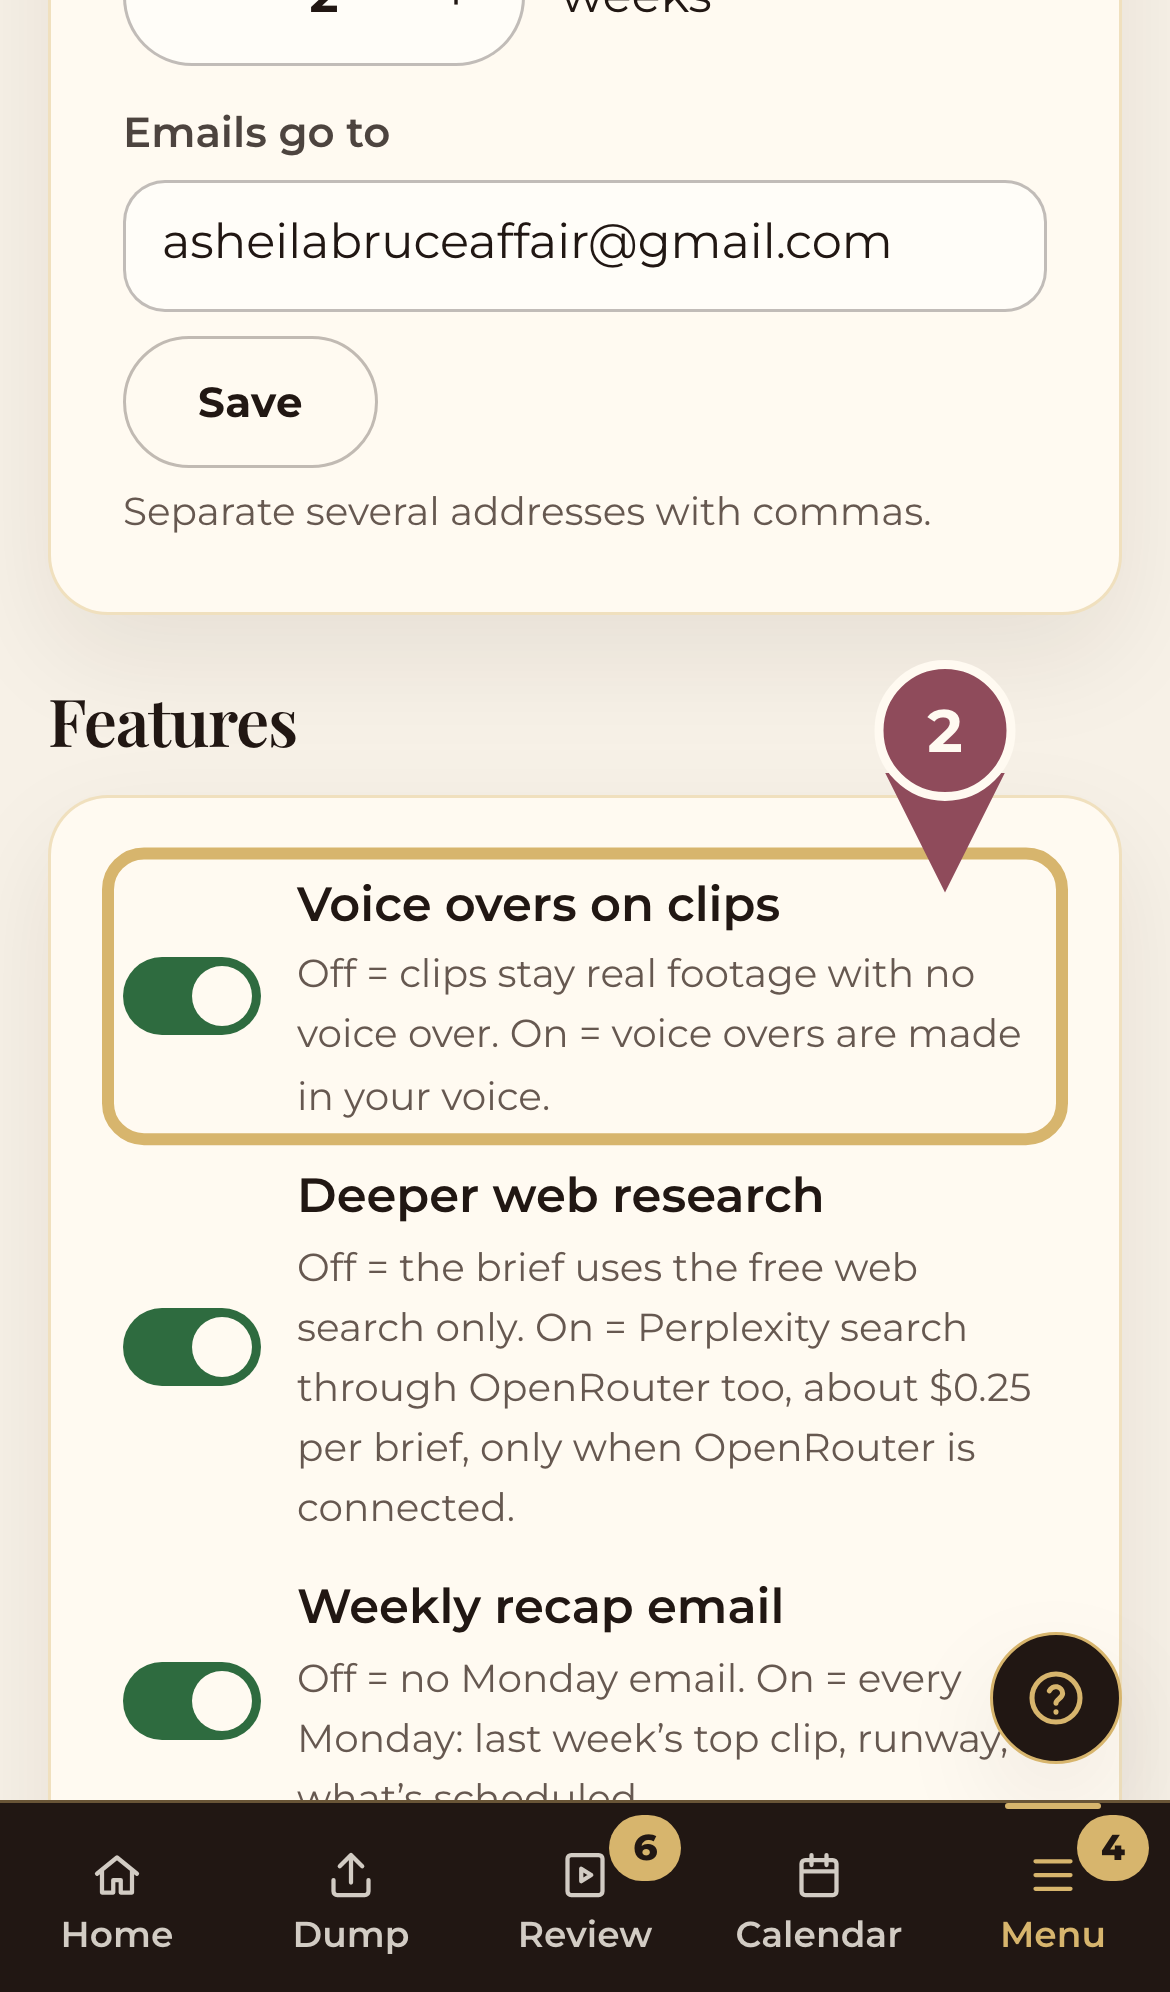
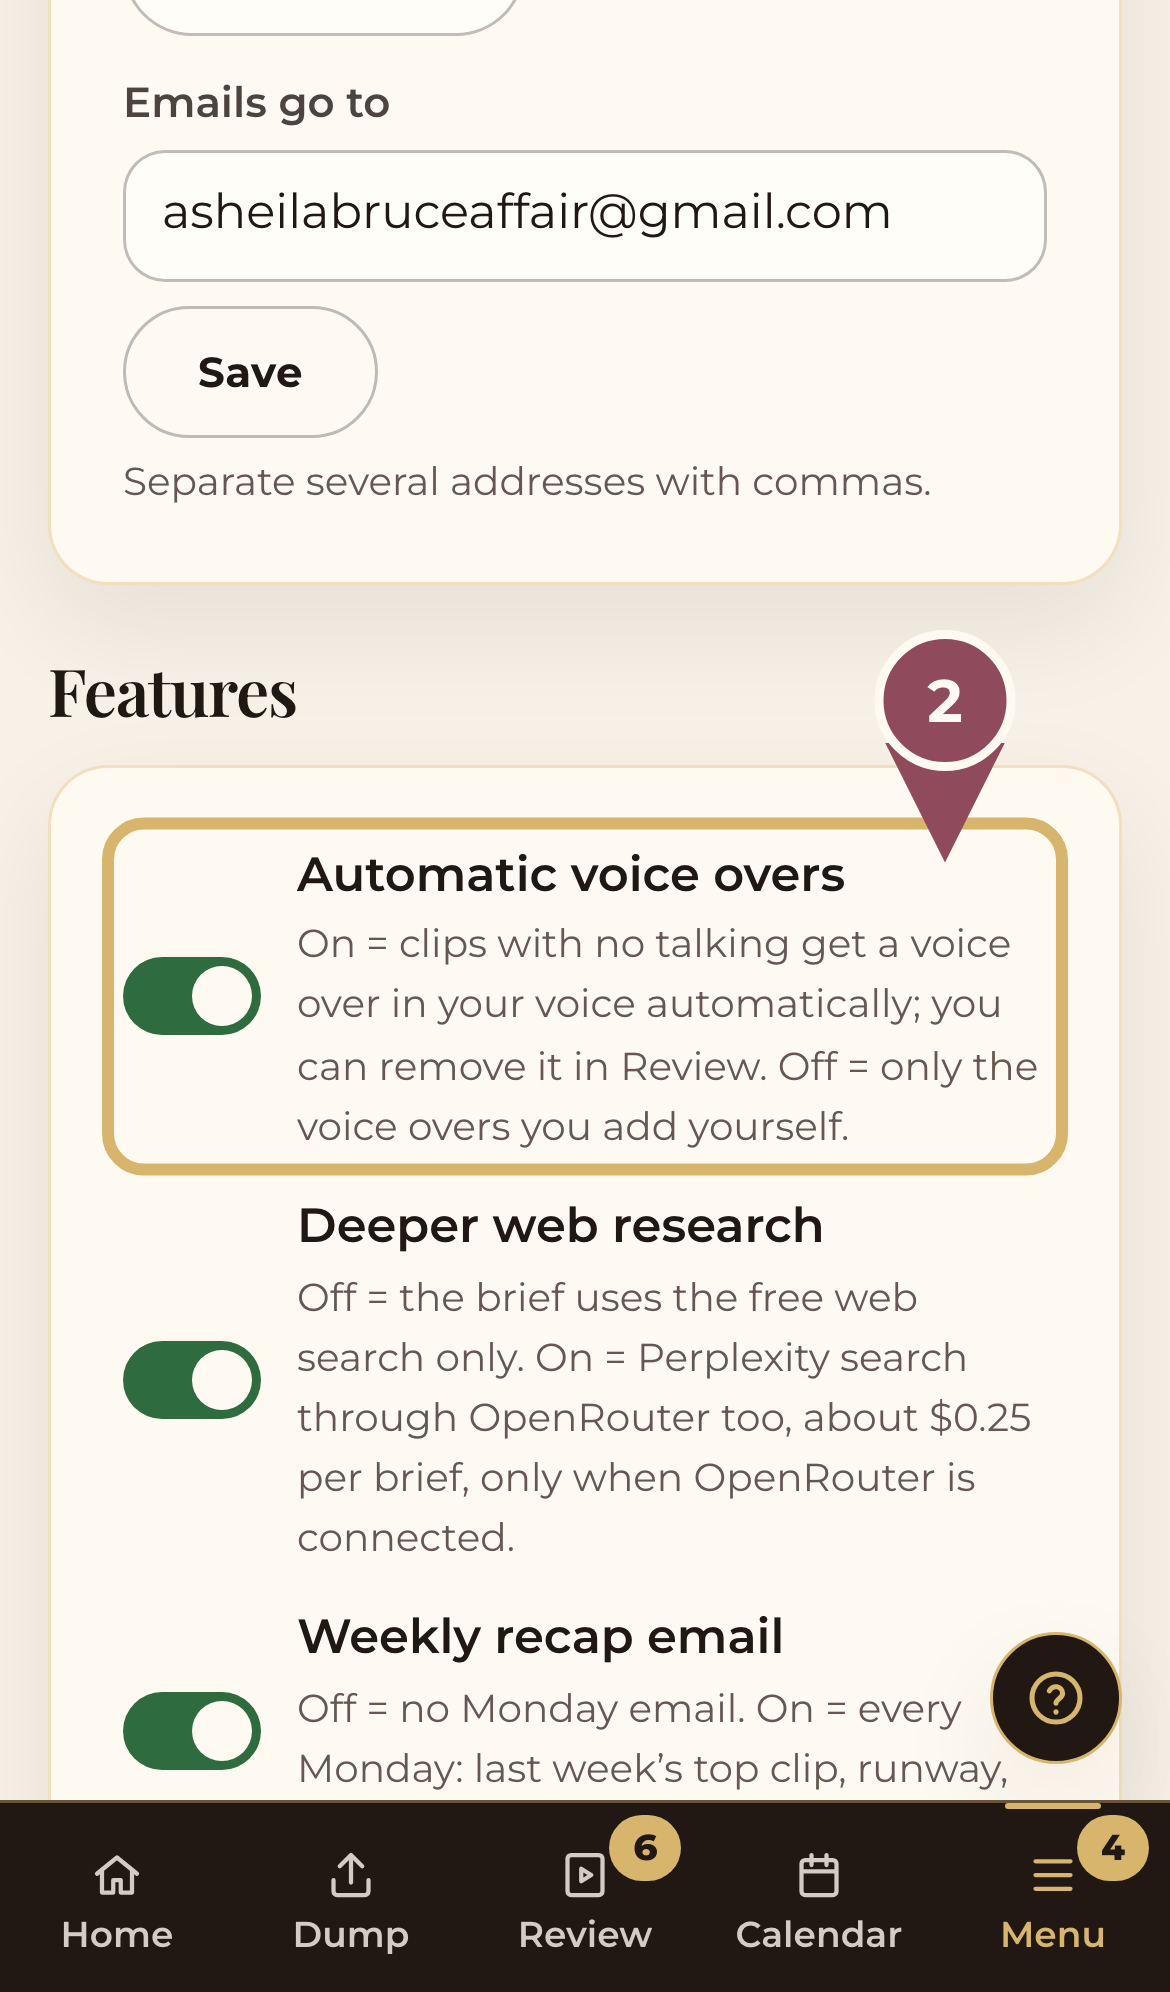
Fix red main: help guides point at the renamed switch "Automatic voice overs"
The help-screenshots job on main failed after #42: settings-and-switches step 2 and
make-a-voice-over step 2 still targeted/said "Voice overs on clips".

Claude-Session: https://claude.ai/code/session_0198aZUrMGZdHeBFG3uvPqJs

diff --git a/help/guides/settings-and-switches.md b/help/guides/settings-and-switches.md
@@ -16,13 +16,13 @@ Every feature starts switched on, so you can use anything you like. Turn off wha
 
 Open **Settings** and find **Features**. Each switch says what off and on mean.
 
-## Voice overs on clips
+## Automatic voice overs
 
 ![Step 2](/help/screenshots/settings-and-switches-2.png)
 <!-- route: /settings -->
-<!-- target: label.switch:has-text("Voice overs on clips") -->
+<!-- target: label.switch:has-text("Automatic voice overs") -->
 
-Off keeps your clips real footage with no voice over.
+On: clips with no talking get a voice over in your voice automatically, and you can remove it in Review. Off: only the voice overs you add yourself.
 
 ## Deeper web research
 

diff --git a/help/guides/make-a-voice-over.md b/help/guides/make-a-voice-over.md
@@ -16,12 +16,12 @@ Once your voice is saved, type what it should say and attach it to a clip.
 
 **Which voice** says whether the free built-in voice or your ElevenLabs premium voice is used, and why.
 
-## Voice overs on clips
+## Automatic voice overs
 
 ![Step 2](/help/screenshots/make-a-voice-over-2.png)
 <!-- target: .clips-switch -->
 
-This switch must be on to add voice overs to clips. Off keeps clips real footage.
+On: clips with no talking get a voice over in your voice automatically. Off: only the voice overs you make here. Either way you can make one yourself.
 
 ## Write the script
 
